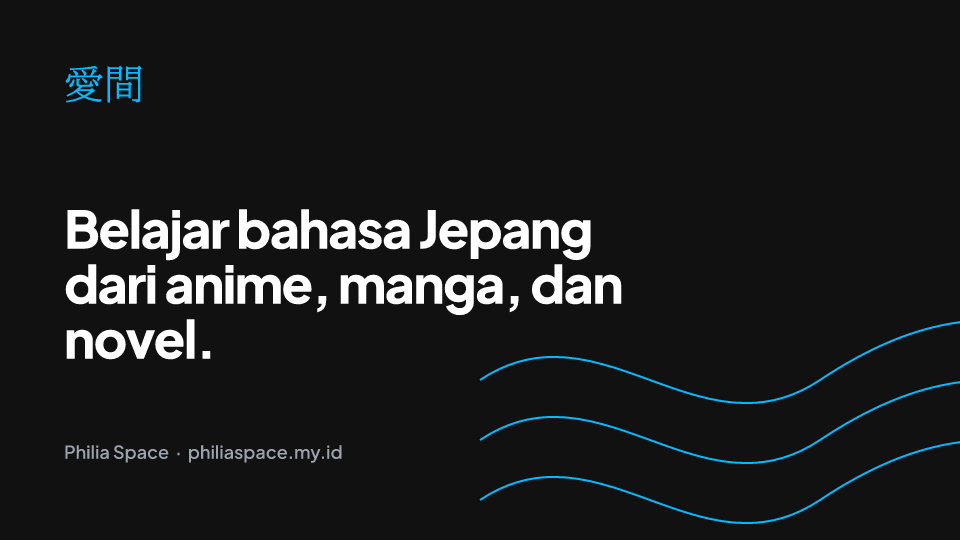
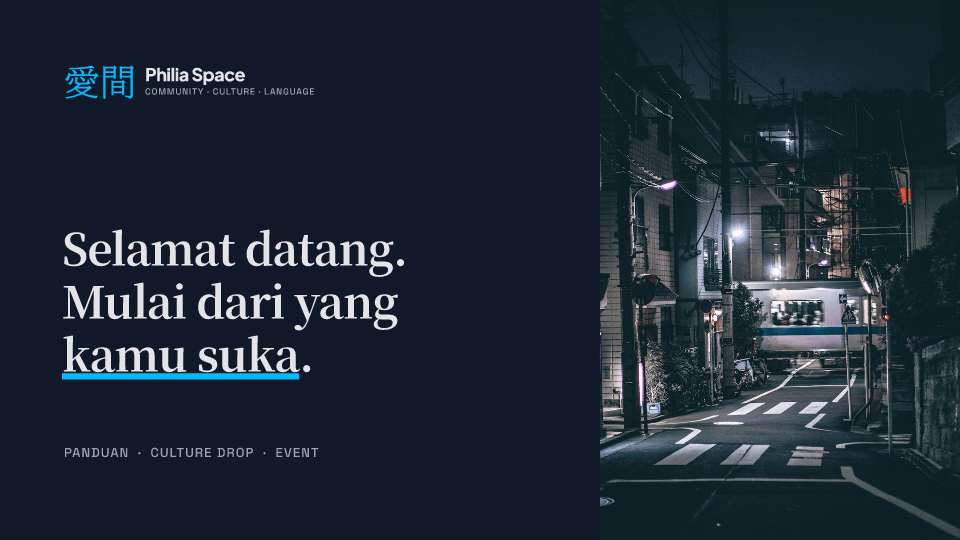
docs(brand): brand identity v2.1, culture first
Ganti draft v0.2 dengan kit v2.1 dari FigCraft: 11 halaman guideline
(termasuk Brand DNA, Bentuk media, Homepage, katalog komponen),
12 template sosial, dan header X baru. Logo tetap 愛間 asli, cyan jadi
aksen, putih dan Paper jadi kanvas. Foto dari Unsplash, PNG dikompres
ke 256 warna supaya repo tetap ringan.

diff --git a/brand/README.md b/brand/README.md
@@ -1,46 +1,68 @@
 # Brand Guideline Philia Space
 
-Pedoman identitas visual untuk philiaspace.my.id. Draft v0.2, November 2026, diekspor dari brand kit FigCraft.
+Pedoman identitas visual untuk philiaspace.my.id. Draft v2.1, November 2026, diekspor dari brand kit FigCraft. Versi ini menggantikan draft v0.2.
+
+Konsepnya *culture first, language second*. Orang datang ke Philia Space karena suka sesuatu dari Jepang, entah satu seri anime, satu band, atau satu game, lalu bahasanya menyusul dari situ. Tampilannya mengikuti majalah budaya Jepang: foto besar, judul serif, garis tipis, dan nomor bagian.
 
 ## Ringkasan
 
-**Warna.** Biru Langit `#00BBFF` adalah satu-satunya warna identitas: tautan, tombol utama, aksen. Sisanya netral.
+**Logo.** Tidak berubah: kanji 愛間 dalam BIZ UDPMincho Medium, avatar gradien bergelombang, dan wordmark Plus Jakarta Sans ExtraBold dengan tracking -3%. Deskriptornya sekarang `COMMUNITY · CULTURE · LANGUAGE`. Yang berubah cara memakainya: logo tampil lebih kecil, boleh berdiri tanpa kotak, dan kanji boleh tampil sendiri sebagai signature di pojok poster, foto, atau footer.
+
+**Warna.** Hex lama tetap dipakai, porsinya yang berubah. Putih dan Paper mengisi 70 sampai 80 persen area, navy membawa teks dan blok editorial, dan cyan tampil sedikit sebagai aksen.
 
 | Nama | Hex | Dipakai untuk |
 |---|---|---|
-| Langit | `#00BBFF` | primary, link, CTA |
-| Langit Tua | `#009CE0` | hover |
-| Laut | `#00669E` | teks biru kecil di latar terang |
-| Krim | `#FFF7C4` | callout, tip (hemat) |
-| Ink | `#111827` | teks utama |
-| Malam | `#111111` | latar mode gelap |
-| Arang | `#18181B` | kode, kartu gelap |
-| Batu | `#4B5563` | teks sekunder |
-| Kabut | `#E5E7EB` | garis, pembatas |
-| Kertas | `#FFFFFF` | latar mode terang |
+| Putih | `#FFFFFF` | kanvas utama, sekitar 50% |
+| Paper | `#F5F5F5` | bagian yang diselang-seling, sekitar 25% |
+| Navy | `#111827` | teks dan blok editorial, sekitar 18% |
+| Cyan | `#00BBFF` | aksen: garis bawah, marker, status terpilih, tombol utama. Di v0.2 disebut Langit |
+| Laut | `#00669E` | teks tautan di latar terang |
+| Abu | `#4B5563` | teks sekunder |
+| Garis | `#E5E7EB` | garis pembatas, bukan untuk teks |
 
-**Kontras.** Teks di atas Langit selalu Ink (8.1:1). Putih di atas Langit cuma 2.2:1, jadi tidak pernah dipakai untuk teks. Rasio pemakaian: 60% netral latar, 30% teks, 10% Langit.
+Mode gelap memakai abu-abu sangat gelap, bukan hitam murni, mengikuti panduan dark theme Material Design: Malam `#121212` sebagai kanvas, Arang `#1E1E1E` untuk permukaan yang terangkat (kode, kartu, blok navy), `#E4E4E7` untuk teks utama (sekitar 87% putih, supaya tidak menyilaukan), dan `#38BDF8` untuk tautan. Permukaan yang lebih tinggi dibuat sedikit lebih terang, karena bayangan sulit terlihat di atas gelap.
 
-**Tipografi.** Plus Jakarta Sans untuk teks Latin, Noto Sans JP untuk teks Jepang, BIZ UDPMincho Medium hanya untuk kanji logo 愛間.
+**Kontras.** Teks di atas cyan selalu navy (8,1:1). Putih di atas cyan cuma 2,2:1, jadi tidak pernah dipakai untuk teks, termasuk untuk kanji logo. Cyan di atas putih hanya untuk garis dan bidang.
+
+**Tipografi.** Noto Serif JP untuk judul dan semua teks Jepang, Plus Jakarta Sans untuk isi dan UI, Space Grotesk untuk label dan angka. BIZ UDPMincho Medium hanya untuk kanji logo.
+
+**Foto.** Foto adalah visual utama. Pakai foto sendiri, kiriman anggota, atau foto berlisensi bebas. Screenshot anime, film, atau game hanya untuk ulasan, ukurannya kecil, dan disertai sumber.
 
 ## Halaman guideline
 
 | | |
 |---|---|
-| ![01 Sampul](brand/brand-01-cover.png) | ![02 Logo](brand/brand-02-logo.png) |
-| 01 Sampul | 02 Logo |
-| ![03 Warna](brand/brand-03-warna.png) | ![04 Tipografi](brand/brand-04-tipografi.png) |
-| 03 Warna | 04 Tipografi |
-| ![05 Elemen grafis](brand/brand-05-elemen-grafis.png) | ![06 Suara](brand/brand-06-suara.png) |
-| 05 Elemen grafis | 06 Suara |
-| ![07 Komponen](brand/brand-07-komponen.png) | ![08 Media sosial](brand/brand-08-media-sosial.png) |
-| 07 Komponen | 08 Media sosial |
+| ![01 Sampul](brand/brand-01-sampul.png) | ![02 Brand DNA](brand/brand-02-brand-dna.png) |
+| 01 Sampul | 02 Brand DNA |
+| ![03 Logo](brand/brand-03-logo.png) | ![04 Warna](brand/brand-04-warna.png) |
+| 03 Logo | 04 Warna |
+| ![05 Tipografi](brand/brand-05-tipografi.png) | ![06 Bahasa desain](brand/brand-06-bahasa-desain.png) |
+| 05 Tipografi | 06 Bahasa desain |
+| ![07 Bentuk media](brand/brand-07-bentuk-media.png) | ![08 Suara](brand/brand-08-suara.png) |
+| 07 Bentuk media | 08 Suara |
+| ![09 Media sosial](brand/brand-09-media-sosial.png) | ![10 Homepage](brand/brand-10-homepage.png) |
+| 09 Media sosial | 10 Homepage (wireframe) |
+| ![11 Komponen](brand/brand-11-komponen.png) | |
+| 11 Katalog komponen | |
 
-## Draft landing page
+## Template media sosial
 
-| Desktop (1440) | Mobile (390) |
-|---|---|
-| ![Landing desktop](landing/landing-desktop.png) | ![Landing mobile](landing/landing-mobile.png) |
+Empat format tetap: Culture Drop, Word of the Day, Community Event, dan Member Spotlight. Setiap unggahan disusun dengan urutan yang sama: judul, visual, informasi, lalu branding kecil di bawah. Teks dalam kurung siku, misalnya `[06.12]` atau `@[nama_anggota]`, adalah tempat isi yang harus diganti sebelum diunggah.
+
+| File | Ukuran | Isi |
+|---|---|---|
+| [template-01-culture-drop.png](template/template-01-culture-drop.png) | 1080 × 1350 | rekomendasi film dalam bingkai film |
+| [template-02-word-of-the-day.png](template/template-02-word-of-the-day.png) | 1080 × 1350 | satu kosakata, foto lingkaran |
+| [template-03-community-event.png](template/template-03-community-event.png) | 1080 × 1350 | watch party |
+| [template-04-member-spotlight.png](template/template-04-member-spotlight.png) | 1080 × 1350 | kutipan anggota |
+| [template-05-carousel-kota-1-sampul.png](template/template-05-carousel-kota-1-sampul.png) | 1080 × 1350 | carousel, slide 1 |
+| [template-05-carousel-kota-2-isi.png](template/template-05-carousel-kota-2-isi.png) | 1080 × 1350 | carousel, slide 2 dengan polaroid |
+| [template-05-carousel-kota-3-akhir.png](template/template-05-carousel-kota-3-akhir.png) | 1080 × 1350 | carousel, slide 3 dengan strip film |
+| [template-06-story-meetup.png](template/template-06-story-meetup.png) | 1080 × 1920 | story meetup dengan tiket |
+| [template-07-persegi-lagu.png](template/template-07-persegi-lagu.png) | 1080 × 1080 | Culture Drop lagu dengan piringan |
+| [template-08-persegi-kolase-anggota.png](template/template-08-persegi-kolase-anggota.png) | 1080 × 1080 | kolase anggota |
+| [template-09-story-word-of-the-day.png](template/template-09-story-word-of-the-day.png) | 1080 × 1920 | story kosakata |
+| [template-10-persegi-panduan.png](template/template-10-persegi-panduan.png) | 1080 × 1080 | tips belajar dengan layar HP |
 
 ## Aset media sosial
 
@@ -49,7 +71,30 @@ Pedoman identitas visual untuk philiaspace.my.id. Draft v0.2, November 2026, die
 | [social-avatar-512.png](social/social-avatar-512.png) | 512 × 512 | avatar akun |
 | [social-discord-banner-960x540.png](social/social-discord-banner-960x540.png) | 960 × 540 | banner server Discord |
 | [social-og-1200x630.png](social/social-og-1200x630.png) | 1200 × 630 | gambar pratinjau tautan (Open Graph) |
+| [social-x-header-1500x500.png](social/social-x-header-1500x500.png) | 1500 × 500 | header akun X |
+
+## Foto
+
+Semua foto contoh diambil dari Unsplash dengan [Lisensi Unsplash](https://unsplash.com/license): boleh dipakai gratis, termasuk untuk keperluan komersial, tanpa wajib atribusi. Foto yang menampilkan orang dipilih yang memperlihatkan orang Jepang atau Indonesia. Mereka bukan anggota Philia Space, jadi untuk Member Spotlight sungguhan, ganti dengan foto anggota yang sudah memberi izin.
+
+| Nama di kit | Sumber |
+|---|---|
+| gang-malam | [unsplash.com/photos/qi2hmCwlhcE](https://unsplash.com/photos/narrow-japanese-street-at-night-qi2hmCwlhcE) |
+| jalan-basah | [unsplash.com/photos/yVUQlyRlJSw](https://unsplash.com/photos/wet-street-at-night-in-tokyo-yVUQlyRlJSw) |
+| shibuya | [unsplash.com/photos/alY6_OpdwRQ](https://unsplash.com/photos/cars-in-neon-shibuya-intersection-alY6_OpdwRQ) |
+| lampion | [unsplash.com/photos/6nuz52vsbWc](https://unsplash.com/photos/japanese-storefront-with-paper-lantern-6nuz52vsbWc) |
+| nonton-bareng | [unsplash.com/photos/GXEcTqlZHno](https://unsplash.com/photos/two-women-discussing-each-other-while-looking-on-laptop-GXEcTqlZHno) |
+| teman-kopi | [unsplash.com/photos/7vkmrCwFB8E](https://unsplash.com/photos/a-group-of-young-men-sitting-next-to-each-other-7vkmrCwFB8E) |
+| kumpul-meja | [unsplash.com/photos/wmhNDKE9Dz0](https://unsplash.com/photos/a-group-of-people-sitting-on-a-bench-next-to-each-other-wmhNDKE9Dz0) |
+| membaca | [unsplash.com/photos/KE6CydhUy0g](https://unsplash.com/photos/a-woman-sitting-on-a-bed-reading-a-book-KE6CydhUy0g) |
+| buku-tangan | [unsplash.com/photos/nUL9aPgGvgM](https://unsplash.com/photos/person-holding-opened-book-nUL9aPgGvgM) |
+| komorebi | [unsplash.com/photos/FsjdtF_6I5k](https://unsplash.com/photos/the-sun-shining-through-the-leaves-of-a-tree-FsjdtF_6I5k) |
+| headphone | [unsplash.com/photos/es0h8aBUNQ8](https://unsplash.com/photos/a-woman-wearing-headphones-sitting-in-front-of-a-plant-es0h8aBUNQ8) |
+| kereta | [unsplash.com/photos/-qwEUsg7UbI](https://unsplash.com/photos/people-at-the-train-looking-at-their-phones--qwEUsg7UbI) |
+| kereta-dalam | [unsplash.com/photos/Xmxl7sk1efg](https://unsplash.com/photos/inside-a-japanese-train-conductor-in-sight-Xmxl7sk1efg) |
 
 ## Sumber
 
-File sumber `philiaspace-brand-kit.figcraft` tidak disimpan di repo ini. Kalau desain berubah, ekspor ulang dari FigCraft lalu timpa isi folder `brand/`, `landing/`, dan `social/` di sini. Nama file hasil ekspor mengikuti konvensi penamaan lintas platform di [README utama](../README.md): huruf kecil, angka, dan tanda hubung saja.
+File sumber `philia-brand-kit.figcraft` (tiga halaman: Brand guidelines, Template sosial, Komponen) tidak disimpan di repo ini. Kalau desain berubah, ekspor ulang dari FigCraft lalu timpa isi folder `brand/`, `template/`, dan `social/` di sini. PNG di repo sudah dikompres ke 256 warna supaya repo tetap ringan, jadi untuk cetak atau unggahan resolusi penuh, ekspor ulang dari file sumbernya.
+
+Nama file hasil ekspor mengikuti konvensi penamaan lintas platform di [README utama](../README.md): huruf kecil, angka, dan tanda hubung saja.
